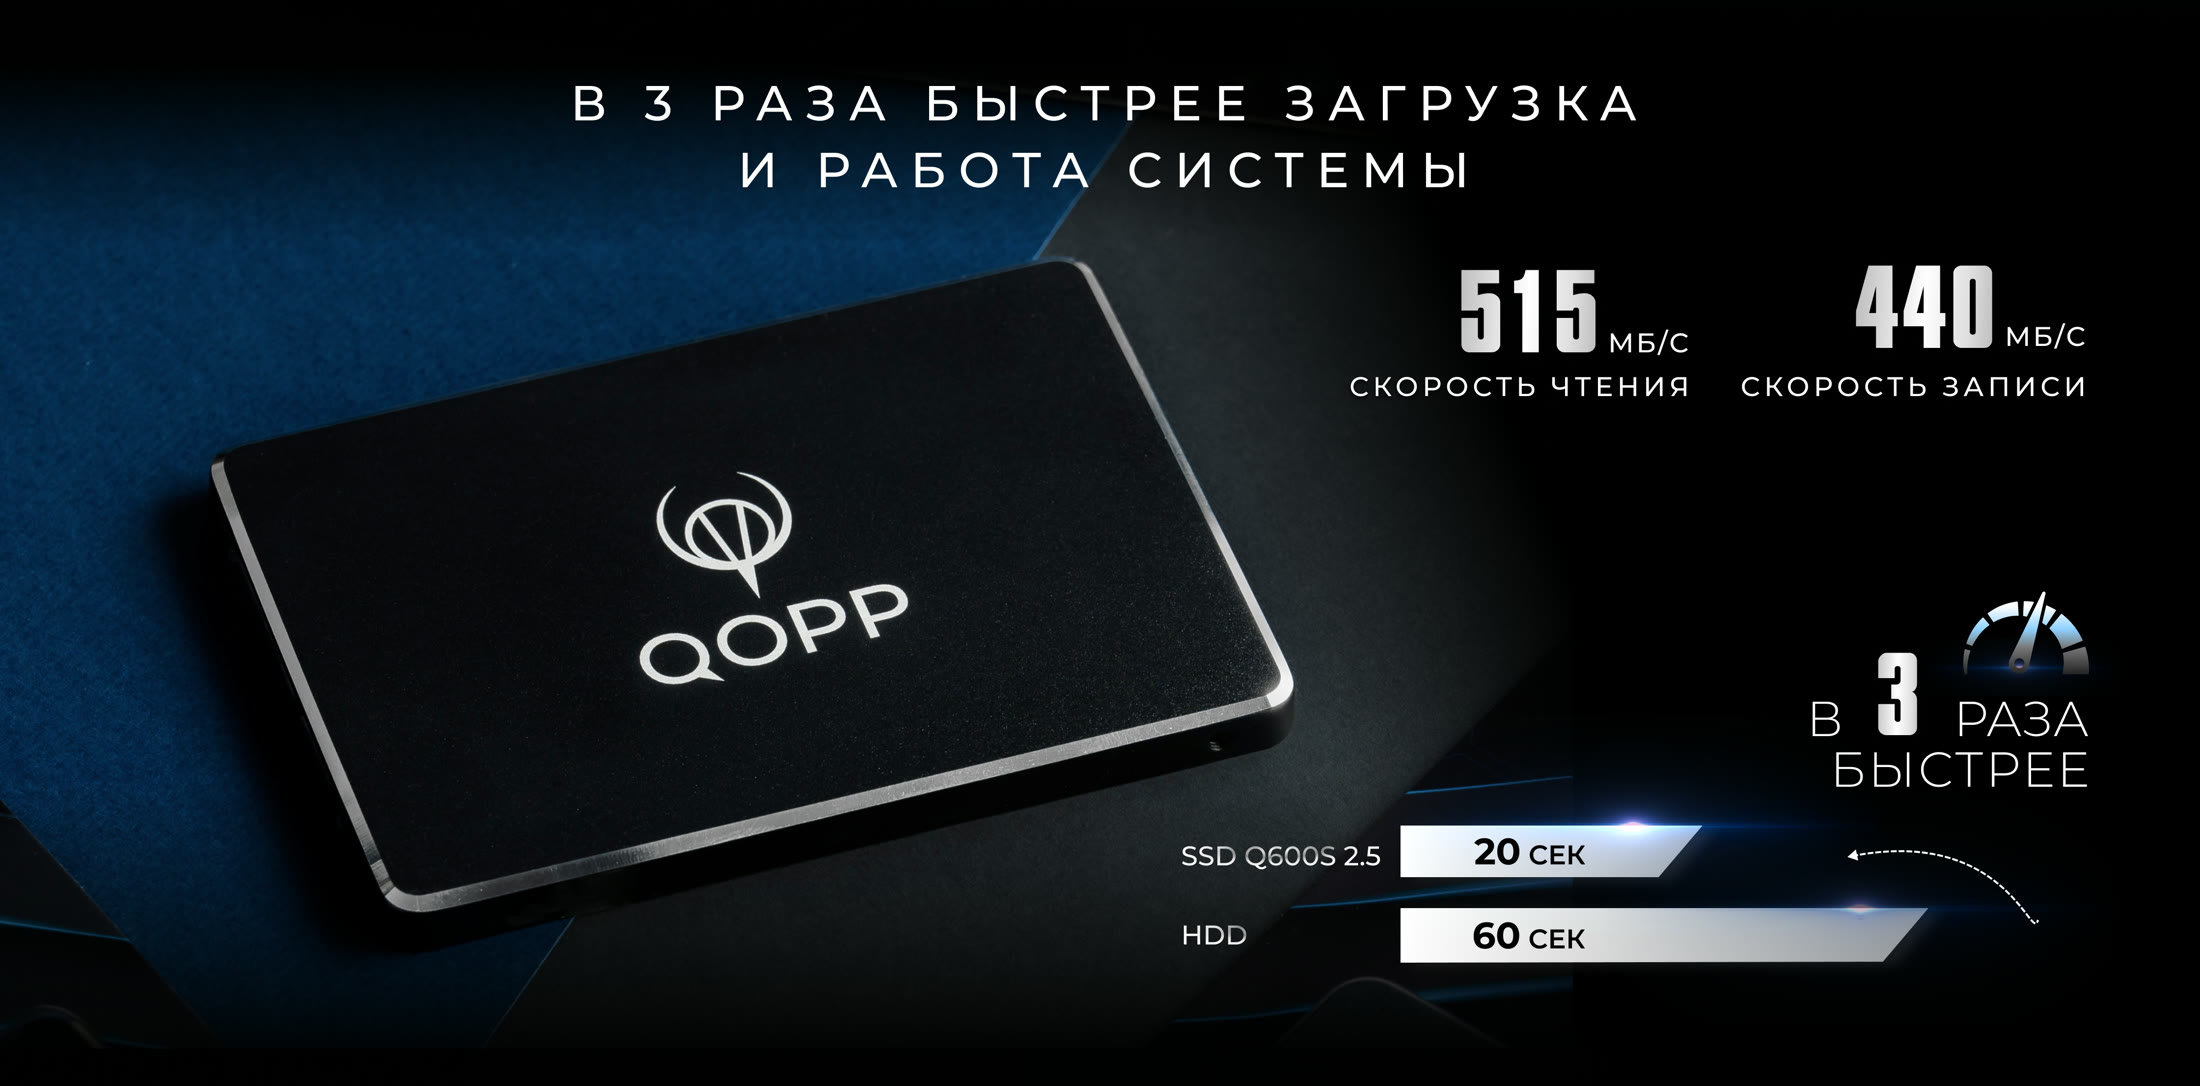
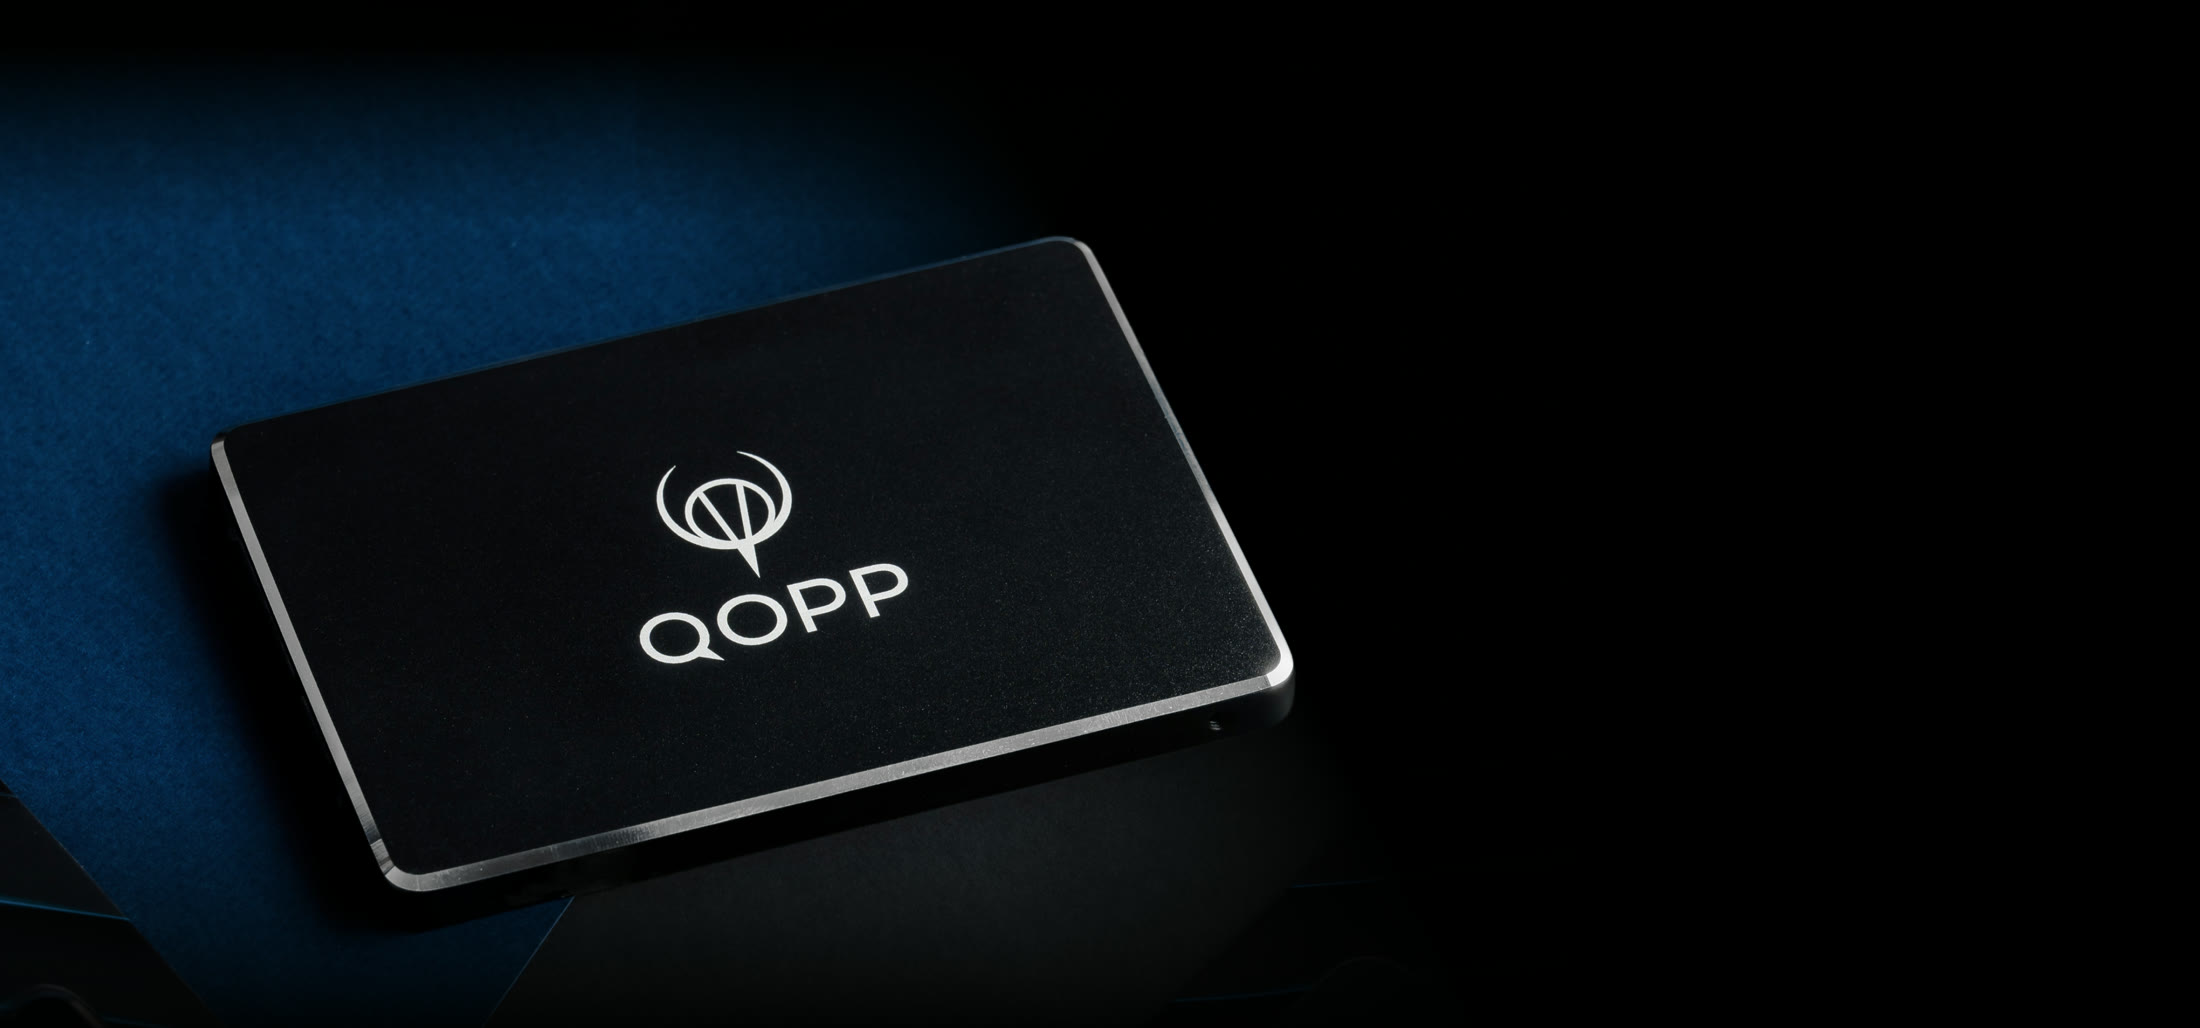
Товарная SATA: чистые фото лендинга Q600S, весь текст живым HTML

diff --git a/ssd-sata.html b/ssd-sata.html
@@ -230,16 +230,40 @@ a.mi{cursor:pointer;text-decoration:none}
 .film{position:relative;z-index:1;background:#050505}
 .film .strip{position:relative}
 .film img{width:100%;height:auto;display:block}
-.ov{
-  position:absolute;color:#f2f0ea;
-  font-family:var(--display);font-weight:600;
-  letter-spacing:.16em;text-transform:uppercase;line-height:1.5;
-  pointer-events:none;
+.ovl{position:absolute;z-index:2;color:#f2f0ea;pointer-events:none;text-transform:uppercase}
+.t-kick{font-family:var(--mono);font-weight:600;letter-spacing:.5em;font-size:clamp(8px,1.35vw,30px)}
+.t-sub{font-family:var(--mono);font-weight:600;letter-spacing:.3em;font-size:clamp(7px,1vw,22px)}
+.t-model{font-family:var(--display);font-weight:800;letter-spacing:.24em;font-size:clamp(17px,3.2vw,72px);line-height:1.15}
+.t-big{font-family:var(--display);font-weight:600;letter-spacing:.18em;font-size:clamp(10px,1.8vw,40px);line-height:1.5}
+.t-line{font-family:var(--body);font-weight:400;letter-spacing:.12em;font-size:clamp(6.5px,.95vw,21px);line-height:2}
+.t-num{font-family:var(--display);font-weight:800;letter-spacing:.04em;font-size:clamp(15px,2.7vw,60px);line-height:1.1}
+.t-num small{font-family:var(--mono);font-weight:600;font-size:.38em;letter-spacing:.2em;vertical-align:.5em}
+.t-cap{font-family:var(--mono);font-weight:600;letter-spacing:.24em;font-size:clamp(6px,.85vw,19px)}
+.ov-h{top:6%;left:0;right:0;text-align:center;display:flex;flex-direction:column;gap:.9vw;align-items:center}
+.ov-s-title{top:4.5%;left:0;right:0;text-align:center}
+.ov-s-nums{top:22%;right:5%;display:flex;gap:3.2vw;text-align:right}
+.ov-s-comp{top:53%;right:5%;width:37%;text-align:right}
+.bar-row{display:flex;align-items:center;justify-content:flex-end;gap:1vw;margin-top:1.1vw}
+.bar-lab{font-family:var(--mono);font-weight:600;letter-spacing:.14em;font-size:clamp(6px,.8vw,17px)}
+.bar{
+  height:clamp(9px,1.7vw,36px);display:flex;align-items:center;justify-content:center;
+  color:#14161c;font-family:var(--display);font-weight:700;font-size:clamp(6.5px,.95vw,21px);letter-spacing:.1em;
+  background:linear-gradient(100deg,#f4f6f9 0%,#c9d2de 100%);
+  transform:skewX(-16deg);
 }
-.ov-endure{top:3.4%;right:2%;width:50%;text-align:center;font-size:clamp(9px,1.75vw,40px)}
-.ov-quiet1{top:5.6%;left:2.6%;width:53%;font-size:clamp(9px,1.75vw,40px);line-height:1.6}
-.ov-quiet2{top:31.6%;left:8.4%;font-size:clamp(7px,1.25vw,28px);letter-spacing:.22em}
-.ov-compat{top:40.5%;left:1.6%;width:47%;font-weight:400;font-size:clamp(7px,1.05vw,24px);letter-spacing:.1em;text-transform:uppercase;line-height:1.75}
+.bar>span{transform:skewX(16deg)}
+.bar-ssd{width:34%}
+.bar-hdd{width:58%}
+.ov-e-tag{display:flex;align-items:center;justify-content:center;gap:.6em;font-family:var(--mono);font-weight:600;letter-spacing:.28em;font-size:clamp(5.5px,.8vw,18px);color:#dfe3ea}
+.ov-e-tag1{left:10.5%;top:6.7%;width:29%;height:4.2%}
+.ov-e-tag2{left:10.5%;top:12.9%;width:14.3%;height:4.2%}
+.ov-e-r{top:15%;right:4.5%;width:44%;text-align:right}
+.ov-e-r .t-line{margin-top:1.4vw}
+.ov-e-r .t-num{margin-top:1.6vw}
+.ov-c{top:13%;left:4%;width:41%;text-align:center}
+.ov-c .t-line{text-align:left;margin-top:1.6vw}
+.ov-q{top:9%;left:5%;width:42%}
+.ov-q .t-line{margin-top:1.4vw}
 
 /* ============ характеристики ============ */
 .specs{position:relative;z-index:1;background:#fff;padding:clamp(60px,9vh,110px) clamp(20px,4vw,56px)}
@@ -296,6 +320,26 @@ a.fl:hover{color:var(--ink)}
   .menu-btn{display:flex}
   .m-menu{display:flex}
   .foot-grid{grid-template-columns:1fr;gap:34px}
+}
+/* узкие экраны: тексты обзора уходят под полосу, на тёмном фоне секции */
+@media (max-width:640px){
+  .ovl{position:static;width:auto;text-align:left;padding:14px 20px 6px}
+  .ovl.ov-h{position:absolute;padding:0;text-align:center}
+  .ov-e-tag{display:none!important}
+  .t-kick{font-size:10px}
+  .t-sub{font-size:9px}
+  .t-model{font-size:22px}
+  .t-big{font-size:14px}
+  .t-line{font-size:11.5px;line-height:1.9}
+  .t-num{font-size:22px}
+  .t-cap{font-size:9px}
+  .ov-s-nums{justify-content:flex-start;gap:30px;text-align:left}
+  .ov-s-comp,.ov-e-r,.ov-c{text-align:left}
+  .bar-row{justify-content:flex-start;gap:10px;margin-top:8px}
+  .bar{height:22px;font-size:11px}
+  .bar-ssd{width:36%}
+  .bar-hdd{width:62%}
+  .ov-e-r .t-line,.ov-e-r .t-num,.ov-c .t-line,.ov-q .t-line{margin-top:10px}
 }
 @media (prefers-reduced-motion: reduce){
   html{scroll-behavior:auto}
@@ -358,7 +402,7 @@ a.fl:hover{color:var(--ink)}
 
 <header class="conf reveal" id="top">
   <figure class="conf-photo part">
-    <img id="conf-img" src="assets/sata-conf-25.jpg" alt="QOPP Q600S, внутренний SSD 2.5 SATA" width="1400" height="617">
+    <img id="conf-img" src="assets/sata-conf-25.jpg" alt="QOPP Q600S, внутренний SSD 2.5 SATA" width="1400" height="676">
   </figure>
   <div class="part">
     <p class="kicker">Внутренний SSD</p>
@@ -419,23 +463,49 @@ a.fl:hover{color:var(--ink)}
   <!-- кино-обзор -->
   <section class="film" id="overview" aria-label="Обзор">
     <div class="strip">
-      <img src="assets/sata-hero.jpg" alt="QOPP Q600S на тёмном столе" width="2200" height="884" loading="lazy">
+      <img src="assets/sata-hero.jpg" alt="QOPP Q600S на тёмном столе" width="2200" height="952" loading="lazy">
+      <div class="ovl ov-h" aria-hidden="true">
+        <span class="t-kick">Внутренний SSD</span>
+        <span class="t-sub">2.5" SATA III SSD</span>
+        <span class="t-model">Q600S</span>
+      </div>
     </div>
     <div class="strip">
-      <img src="assets/sata-speed.jpg" alt="Скорость чтения 515 МБ/с, записи 440 МБ/с: загрузка системы в 3 раза быстрее HDD" width="2200" height="1086" loading="lazy">
+      <img src="assets/sata-speed.jpg" alt="Скорость чтения 515 МБ/с, записи 440 МБ/с: загрузка системы в 3 раза быстрее HDD" width="2200" height="1028" loading="lazy">
+      <span class="ovl ov-s-title t-big" aria-hidden="true">В 3 раза быстрее загрузка<br>и работа системы</span>
+      <div class="ovl ov-s-nums" aria-hidden="true">
+        <span><span class="t-num">515<small>МБ/С</small></span><br><span class="t-cap">скорость чтения</span></span>
+        <span><span class="t-num">440<small>МБ/С</small></span><br><span class="t-cap">скорость записи</span></span>
+      </div>
+      <div class="ovl ov-s-comp" aria-hidden="true">
+        <span class="t-big">В 3 раза быстрее</span>
+        <div class="bar-row"><span class="bar-lab">SSD Q600S 2.5</span><div class="bar bar-ssd"><span>20 СЕК</span></div></div>
+        <div class="bar-row"><span class="bar-lab">HDD</span><div class="bar bar-hdd"><span>60 СЕК</span></div></div>
+      </div>
     </div>
     <div class="strip">
-      <img src="assets/sata-endure.jpg" alt="Время наработки на отказ 2 000 000 часов, поддержка циклической записи видео" width="2200" height="1022" loading="lazy">
-      <span class="ov ov-endure" aria-hidden="true">Быстрый апгрейд<br>для вашего устройства</span>
+      <img src="assets/sata-endure.jpg" alt="Время наработки на отказ 2 000 000 часов, поддержка циклической записи видео" width="2200" height="1070" loading="lazy">
+      <span class="ovl ov-e-tag ov-e-tag1" aria-hidden="true">&#9656; Время наработки на отказ</span>
+      <span class="ovl ov-e-tag ov-e-tag2" aria-hidden="true">&#9662; Ресурс TBW</span>
+      <div class="ovl ov-e-r" aria-hidden="true">
+        <span class="t-big">Быстрый апгрейд<br>для вашего устройства</span>
+        <p class="t-line">Поддержка Loop Recording<br>(циклическая запись видео в формате 4K)<br>Сохранение и просмотр без сбоев<br>Работа на любом видеорегистраторе</p>
+        <span class="t-num">2 000 000<small>Ч</small></span>
+      </div>
     </div>
     <div class="strip">
-      <img src="assets/sata-compat.jpg" alt="Совместимость с большинством ноутбуков и ПК" width="2200" height="732" loading="lazy">
-      <span class="ov ov-compat" aria-hidden="true">Дольше работа от батареи<br>у ноутбуков и портативных устройств</span>
+      <img src="assets/sata-compat.jpg" alt="Совместимость с большинством ноутбуков и ПК" width="2200" height="1070" loading="lazy">
+      <div class="ovl ov-c" aria-hidden="true">
+        <span class="t-big">Совместимость</span>
+        <p class="t-line">С большинством ноутбуков и ПК<br>Дольше работа от батареи у ноутбуков<br>и портативных устройств</p>
+      </div>
     </div>
     <div class="strip">
-      <img src="assets/sata-quiet.jpg" alt="Бесшумный, низкая температура, устойчивость к вибрациям и ударам" width="2200" height="1542" loading="lazy">
-      <span class="ov ov-quiet1" aria-hidden="true">Быстрый апгрейд<br>для вашего устройства</span>
-      <span class="ov ov-quiet2" aria-hidden="true">Тихий и выносливый</span>
+      <img src="assets/sata-quiet.jpg" alt="Бесшумный, низкая температура, устойчивость к вибрациям и ударам" width="2200" height="1188" loading="lazy">
+      <div class="ovl ov-q" aria-hidden="true">
+        <span class="t-big">Тихий и выносливый</span>
+        <p class="t-line">Бесшумный<br>Низкая температура<br>Устойчивость к вибрациям и ударам</p>
+      </div>
     </div>
     <div class="strip">
       <img src="assets/sata-quality.jpg" alt="Гарантия QOPP 5 лет" width="2200" height="1070" loading="lazy">
